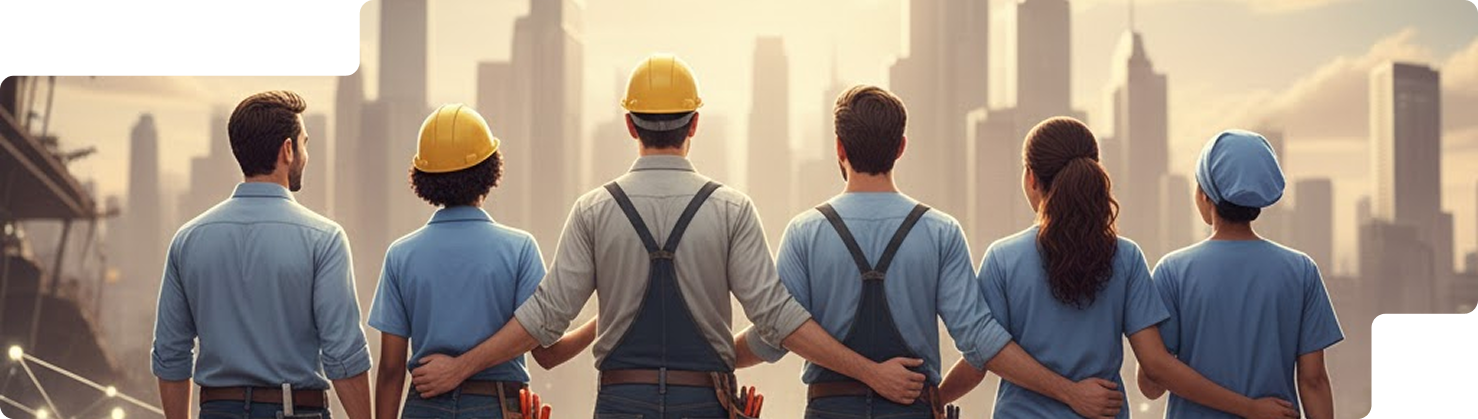
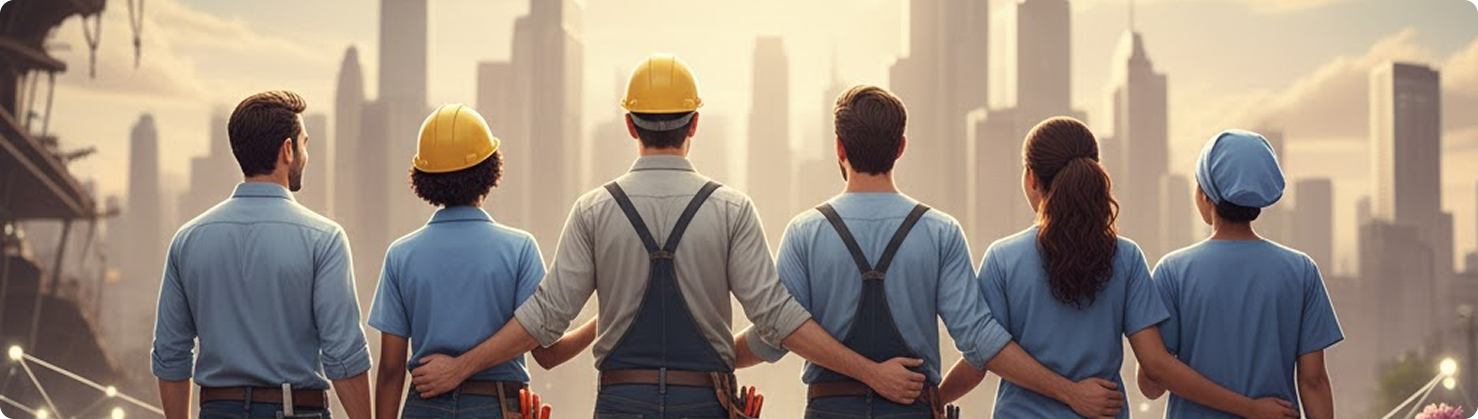
Enhanced the about us page as well as worked on proper routing

Changed region(s): [[0.0, 0.0, 0.249, 0.1862], [0.9026, 0.7136, 1.0, 1.0]]

diff --git a/frontend/src/pages/public/AboutUs.tsx b/frontend/src/pages/public/AboutUs.tsx
@@ -62,7 +62,7 @@ const AboutUs: React.FC = () => {
                 Our Story, Vision<br />and Values
               </h1>
             </div>
-            <div className="lg:w-1/2 lg:pt-3">
+            <div className="lg:w-1/2 lg:pt-3 mt-6">
               <p className="text-gray-500 text-base leading-relaxed">
                 Learn about our commitment to excellence, innovation and principles that
                 guide our work everyday.